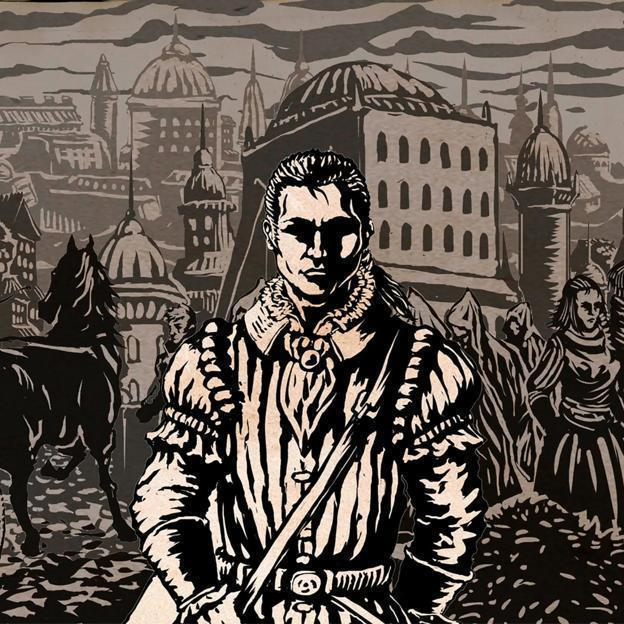
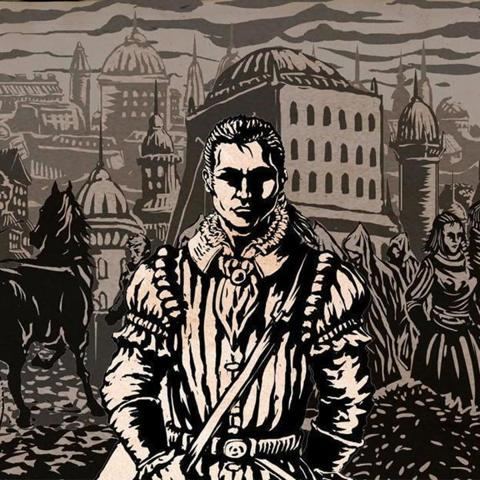
Show dinamic style change

diff --git a/Stile_Transfer/Stile_Transfer.py b/Stile_Transfer/Stile_Transfer.py
@@ -96,11 +96,11 @@ def compute_loss(model, loss_weights, init_image, gram_style_features, content_f
 
 
 def __main__():
-	ResizeImg("img.jpg", 720, 720)
-	ResizeImg("img_style.jpg", 720, 720)
+	ResizeImg("img_1.jpg", 480, 480)
+	ResizeImg("img_style_1.jpg", 480, 480)
 
-	img = Image.open('img.jpg')
-	img_style = Image.open('img_style.jpg')
+	img = Image.open('img_1.jpg')
+	img_style = Image.open('img_style_1.jpg')
 
 	plt.subplot(1, 2, 1)
 	plt.imshow(img)
@@ -166,6 +166,9 @@ def __main__():
 	max_vals = 255 - norm_mean
 	imgs = []
 
+	plt.ion()
+	fig, ax = plt.subplots()
+
 	for i in range(num_iterators):
 		with tf.GradientTape() as tape:
 			all_loss = compute_loss(**cfg)
@@ -185,6 +188,14 @@ def __main__():
 			plot_image = deprecess_image(init_image.numpy())
 			imgs.append(plot_image)
 			print('Iteration: {}'.format(i))
+
+		ax.clear()
+		plt.imshow(imgs[len(imgs) - 1])
+		plt.draw()
+		plt.gcf().canvas.flush_events() 
+
+
+	plt.ioff()
 
 	plt.imshow(best_img)
 	plt.show()
